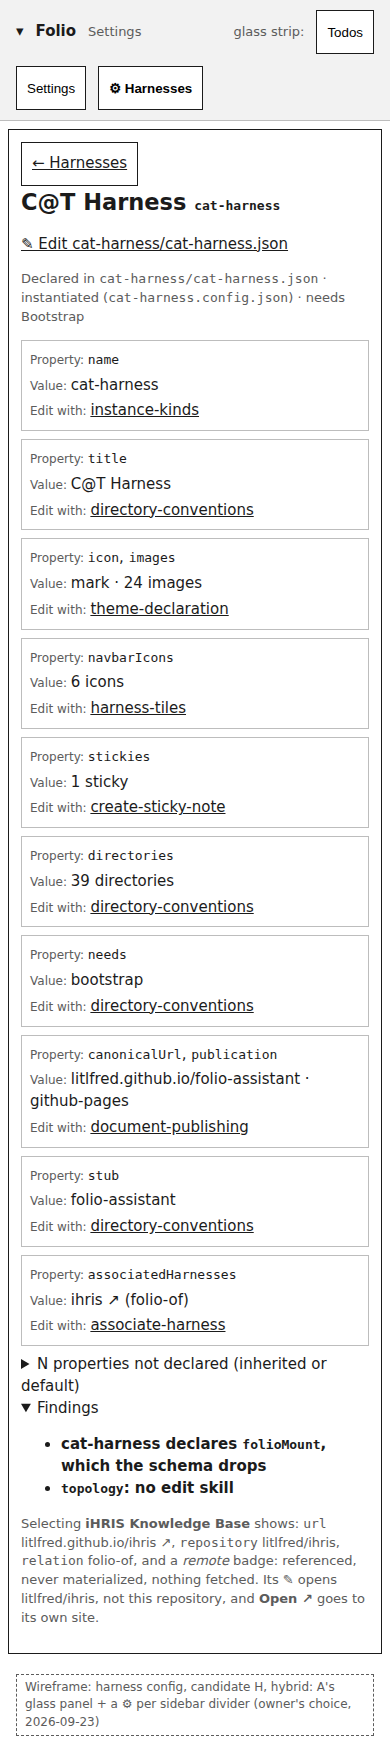
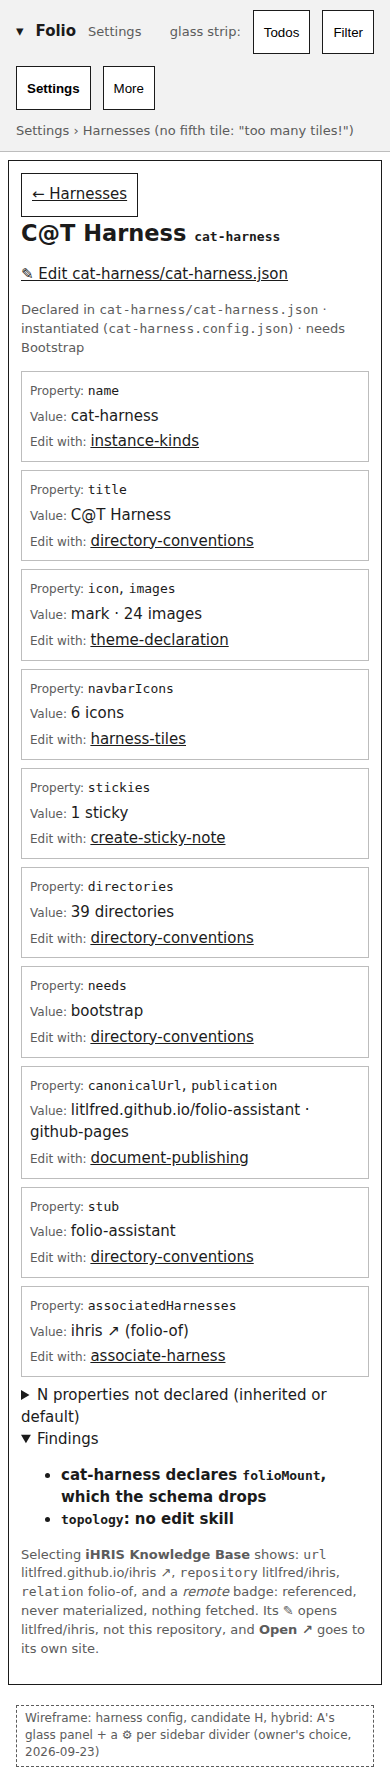
Harnesses panel: reach it from Settings and the sidebar gear, not a fifth strip tile (#1146)
The glass strip keeps its four tiles (owner: "too many tiles!", pinned by
glass-tiles.e2e.ts). Candidate H drew the panel as a Settings view; it now is
one. New e2e: harness-config-panel.e2e.ts (gear opens the chosen harness,
Settings reaches it, associated links go to its own site and repository,
44px targets, phone drill-in).

Claude-Session: https://claude.ai/code/session_01TA4id51RCSxZ4NxijDwrWQ

Changed region(s): [[0.0308, 0.0, 0.9538, 0.9886], [0.5538, 0.0, 0.9538, 0.0309], [0.9538, 0.0618, 0.9846, 0.0927]]

diff --git a/cat-harness/test/harness-config-panel.e2e.ts b/cat-harness/test/harness-config-panel.e2e.ts
@@ -1,0 +1,118 @@
+/**
+ * The Harnesses config panel (issue #1146), the owner's "Hybrid": reached from
+ * Settings and from a ⚙ on each sidebar divider, never from a fifth strip tile.
+ * The data is the generated `assets/harness/config.json`, stubbed here in its
+ * real shape (`scripts/harness-panel.ts`).
+ */
+import { test, expect, type Page } from "@playwright/test";
+import { readFileSync } from "node:fs";
+import { dirname, join } from "node:path";
+import { fileURLToPath } from "node:url";
+
+import { siteDirFor } from "../schemas/cat-harness.ts";
+
+const ROOT = join(dirname(fileURLToPath(import.meta.url)), "..");
+const SITE = siteDirFor(ROOT);
+const CSS = readFileSync(join(ROOT, SITE, "assets/css/docs-ui.css"), "utf8");
+const JS = readFileSync(join(ROOT, SITE, "assets/js/docs-ui.js"), "utf8");
+
+const PAGE = `<!doctype html><html lang="en"><head><meta charset="utf-8">
+<style>${CSS}</style></head><body>
+<ul class="fa-harness-tabs__list"><li class="fa-harness-tab">
+  <a class="fa-harness-tab__body" href="/cat/">C@T Harness</a>
+  <button type="button" class="fa-harness-tab__config" data-fa-harness-config="cat-harness"
+          aria-label="Configuration of C@T Harness">&#x2699;&#xFE0E;</button>
+</li></ul>
+<script>${JS}</script></body></html>`;
+
+const CONFIG = {
+  properties: [
+    { key: "name", skills: [{ name: "instance-kinds", path: "/reference/skill-instructions/instance-kinds.html" }] },
+    { key: "associatedHarnesses", skills: [{ name: "associate-harness", path: "/reference/skill-instructions/associate-harness.html" }] },
+    { key: "topology", skills: [], gap: "no skill edits `topology` yet" },
+  ],
+  harnesses: [
+    {
+      name: "cat-harness", title: "C@T Harness", group: "instantiated", declaredIn: "cat-harness/cat-harness.json",
+      viewHref: "https://github.com/x/y/blob/main/cat-harness/cat-harness.json",
+      editHref: "https://github.com/x/y/edit/main/cat-harness/cat-harness.json",
+      declared: [{ key: "name", summary: "cat-harness" }, { key: "associatedHarnesses", summary: "1: ihris" }],
+    },
+    { name: "smart-l1", title: "smart-l1", group: "checkout", declaredIn: "smart-l1/smart-l1.json", declared: [] },
+  ],
+  associated: [
+    {
+      name: "ihris", title: "iHRIS Knowledge Base", url: "https://litlfred.github.io/ihris/",
+      repository: "https://github.com/litlfred/ihris", editHref: "https://github.com/litlfred/ihris",
+      relation: "folio-of", declaredBy: ["cat-harness"],
+    },
+  ],
+  findings: ["`topology`: no skill edits `topology` yet"],
+};
+
+test.beforeEach(async ({ page }) => {
+  await page.route("http://replica.test/**", (route) => {
+    const url = new URL(route.request().url());
+    if (url.pathname === "/page.html") return route.fulfill({ contentType: "text/html", body: PAGE });
+    if (url.pathname === "/assets/harness/config.json") {
+      return route.fulfill({ contentType: "application/json", body: JSON.stringify(CONFIG) });
+    }
+    return route.fulfill({ status: 404, body: "not found" });
+  });
+  await page.goto("http://replica.test/page.html");
+  await page.waitForSelector(".fa-glass-handle", { state: "attached" });
+});
+
+const panel = (page: Page) => page.locator('[data-fa-panel="glass-harnesses"]');
+
+test("the sidebar ⚙ opens the glass on that harness's properties and edit skills", async ({ page }) => {
+  await page.click('[data-fa-harness-config="cat-harness"]');
+  await expect(page.locator(".fa-sticky-layer")).toHaveAttribute("data-fa-glass", "open");
+  const p = panel(page);
+  await expect(p.locator(".fa-hc-title")).toContainText("C@T Harness");
+  await expect(p.locator('.fa-hc-item[aria-current="true"]')).toContainText("C@T Harness");
+  const row = p.locator(".fa-hc-table tbody tr", { hasText: "associatedHarnesses" }).first();
+  await expect(row.locator("a")).toHaveAttribute("href", /associate-harness\.html$/);
+  const edit = p.locator(".fa-hc-actions a").first();
+  await expect(edit).toHaveAttribute("href", /\/edit\/main\/cat-harness\/cat-harness\.json$/);
+  await expect(edit).toHaveAttribute("aria-label", /Edit C@T Harness's declaration/);
+});
+
+test("Settings reaches the panel; the three groups are there", async ({ page }) => {
+  await page.click(".fa-glass-handle");
+  await page.click('[data-fa-glass-chrome="glass-settings"]');
+  await page.click(".fa-glass-harnesses");
+  const p = panel(page);
+  await expect(p.locator('[data-fa-hc-group="instantiated"] h3')).toContainText("(1)");
+  await expect(p.locator('[data-fa-hc-group="checkout"] h3')).toContainText("(1)");
+  await expect(p.locator('[data-fa-hc-group="associated"] h3')).toContainText("(1)");
+  await expect(p.locator(".fa-hc-findings")).toContainText("1 findings");
+});
+
+test("an associated harness links to its own site and its own repository, never here", async ({ page }) => {
+  await page.click('[data-fa-harness-config="cat-harness"]');
+  const p = panel(page);
+  await p.locator(".fa-hc-item", { hasText: "iHRIS Knowledge Base" }).click();
+  await expect(p.locator(".fa-hc-actions a", { hasText: "Open" })).toHaveAttribute("href", "https://litlfred.github.io/ihris/");
+  await expect(p.locator(".fa-hc-actions a", { hasText: "Its repository" })).toHaveAttribute("href", "https://github.com/litlfred/ihris");
+  await expect(p).toContainText("referenced, never loaded");
+});
+
+test("every control in the panel is at least 44px tall", async ({ page }) => {
+  await page.click('[data-fa-harness-config="cat-harness"]');
+  const small = await panel(page).locator(".fa-hc-item, .fa-hc-actions a").evaluateAll((els) =>
+    els.filter((e) => e.getBoundingClientRect().height > 0 && e.getBoundingClientRect().height < 44).map((e) => e.textContent));
+  expect(small).toEqual([]);
+});
+
+test.describe("on a phone", () => {
+  test.use({ viewport: { width: 390, height: 844 } });
+  test("it drills in: the chosen harness alone, with a way back to the list", async ({ page }) => {
+    await page.click('[data-fa-harness-config="cat-harness"]');
+    const p = panel(page);
+    await expect(p.locator(".fa-hc-list")).toBeHidden();
+    await p.locator(".fa-hc-back").click();
+    await expect(p.locator(".fa-hc-list")).toBeVisible();
+    await expect(p.locator(".fa-hc-detail")).toBeHidden();
+  });
+});

diff --git a/cat-harness/docs/assets/js/docs-ui.js b/cat-harness/docs/assets/js/docs-ui.js
@@ -4665,6 +4665,13 @@
       body.appendChild(fs);
       showOpacity();
 
+      // THE HARNESSES PANEL (issue #1146): each harness's properties and the
+      // skill that edits each. A Settings view, as candidate H drew it.
+      var hc = el("button", { type: "button", class: "fa-glass-reset fa-glass-harnesses" },
+        "Harnesses — properties, and the skill that edits each");
+      hc.addEventListener("click", function () { openHarnesses(null); });
+      body.appendChild(hc);
+
       // THE WAY BACK FROM A MESSY GLASS. Every card returns to the grid;
       // nothing leaves the folio and nothing leaves the glass.
       var tidy = el("button", { type: "button", class: "fa-glass-reset fa-glass-tidy" },
@@ -5056,7 +5063,13 @@
       });
     }
     var HARNESSES_TITLE = "Harnesses — each one's properties, and the skill that edits each";
-    chromeTile("glass-harnesses", "Harnesses", "⚙", HARNESSES_TITLE, function (b) { buildHarnesses(b, null); });
+    // NOT A STRIP TILE. Owner, 2026-09-23: *"too many tiles!"* — the strip is
+    // the glass's four. The panel is reached from Settings (candidate H drew it
+    // as a Settings view) and from the ⚙ on each sidebar divider.
+    function openHarnesses(name) {
+      if (openPanelId === "glass-harnesses") closePanel();
+      openPanel("glass-harnesses", HARNESSES_TITLE, function (b) { buildHarnesses(b, name); });
+    }
     // THE SIDEBAR'S ⚙ — one per divider, rendered by `nav_footer_custom.html`.
     // Delegated, because the sidebar is drawn by Jekyll and knows no script.
     document.addEventListener("click", function (ev) {
@@ -5065,8 +5078,7 @@
       ev.preventDefault();
       var name = t.getAttribute("data-fa-harness-config");
       setOpen(true);
-      if (openPanelId === "glass-harnesses") closePanel();
-      openPanel("glass-harnesses", HARNESSES_TITLE, function (b) { buildHarnesses(b, name); });
+      openHarnesses(name);
     });
 
     /* ── MORE, not twenty tiles — owner, 2026-09-23: *"too many tiles!"* ──

diff --git a/cat-harness/docs/wireframes/harness-config/h.html b/cat-harness/docs/wireframes/harness-config/h.html
@@ -45,7 +45,7 @@
   <p class="wf-mute">⚙ opens the glass's Harnesses panel with that harness chosen.</p>
 </aside>
 <div>
-<div class="hdr wf-fill"><span aria-hidden="true">▾</span><b>Folio</b><span class="wf-mute">Settings</span><span style="margin-left:auto" class="wf-mute">glass strip:</span><button type="button" class="wf-btn">Todos</button><button type="button" class="wf-btn">Settings</button><button type="button" class="wf-btn" aria-expanded="true"><b>⚙ Harnesses</b></button></div>
+<div class="hdr wf-fill"><span aria-hidden="true">▾</span><b>Folio</b><span class="wf-mute">Settings</span><span style="margin-left:auto" class="wf-mute">glass strip:</span><button type="button" class="wf-btn">Todos</button><button type="button" class="wf-btn">Filter</button><button type="button" class="wf-btn" aria-expanded="true"><b>Settings</b></button><button type="button" class="wf-btn">More</button><span class="wf-mute">Settings › Harnesses (no fifth tile: "too many tiles!")</span></div>
 <div class="panel" role="region" aria-label="Harness configuration">
   <nav class="list" aria-label="Harnesses">
     <h3>Instantiated here (6)</h3>
